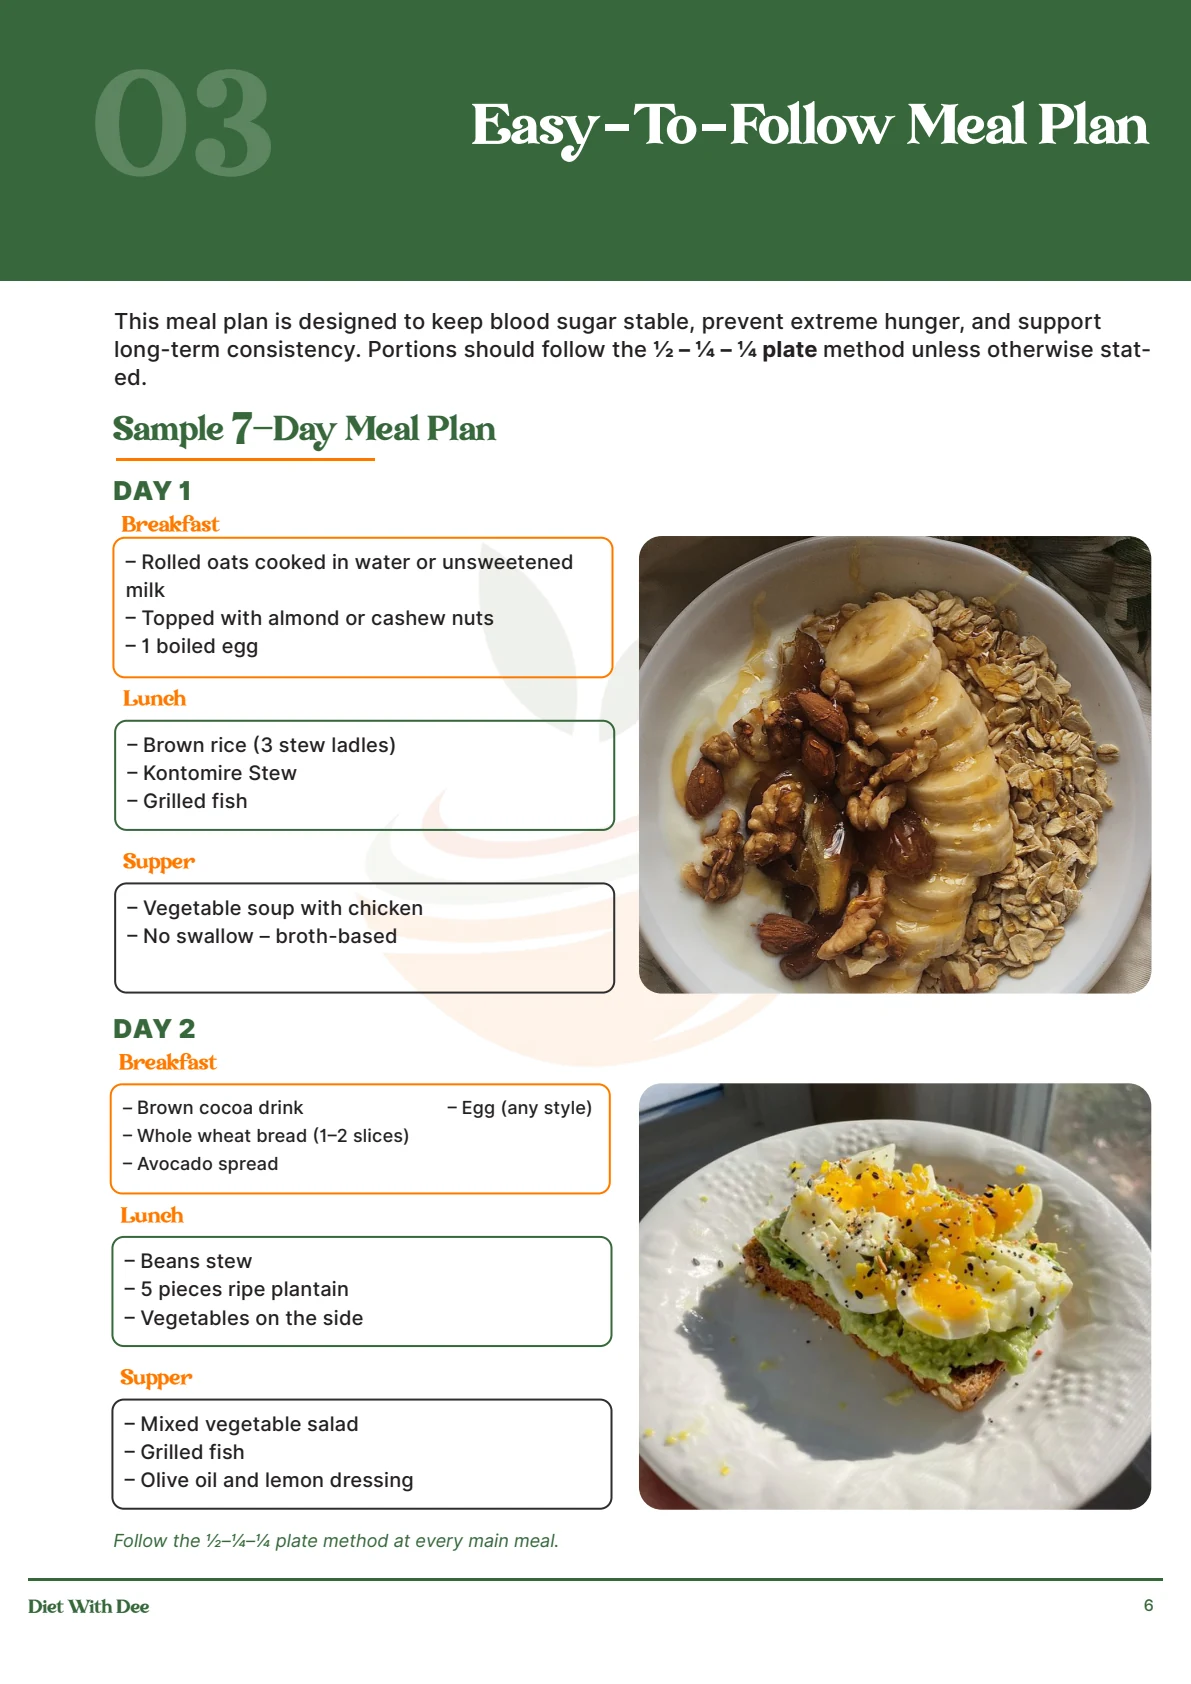
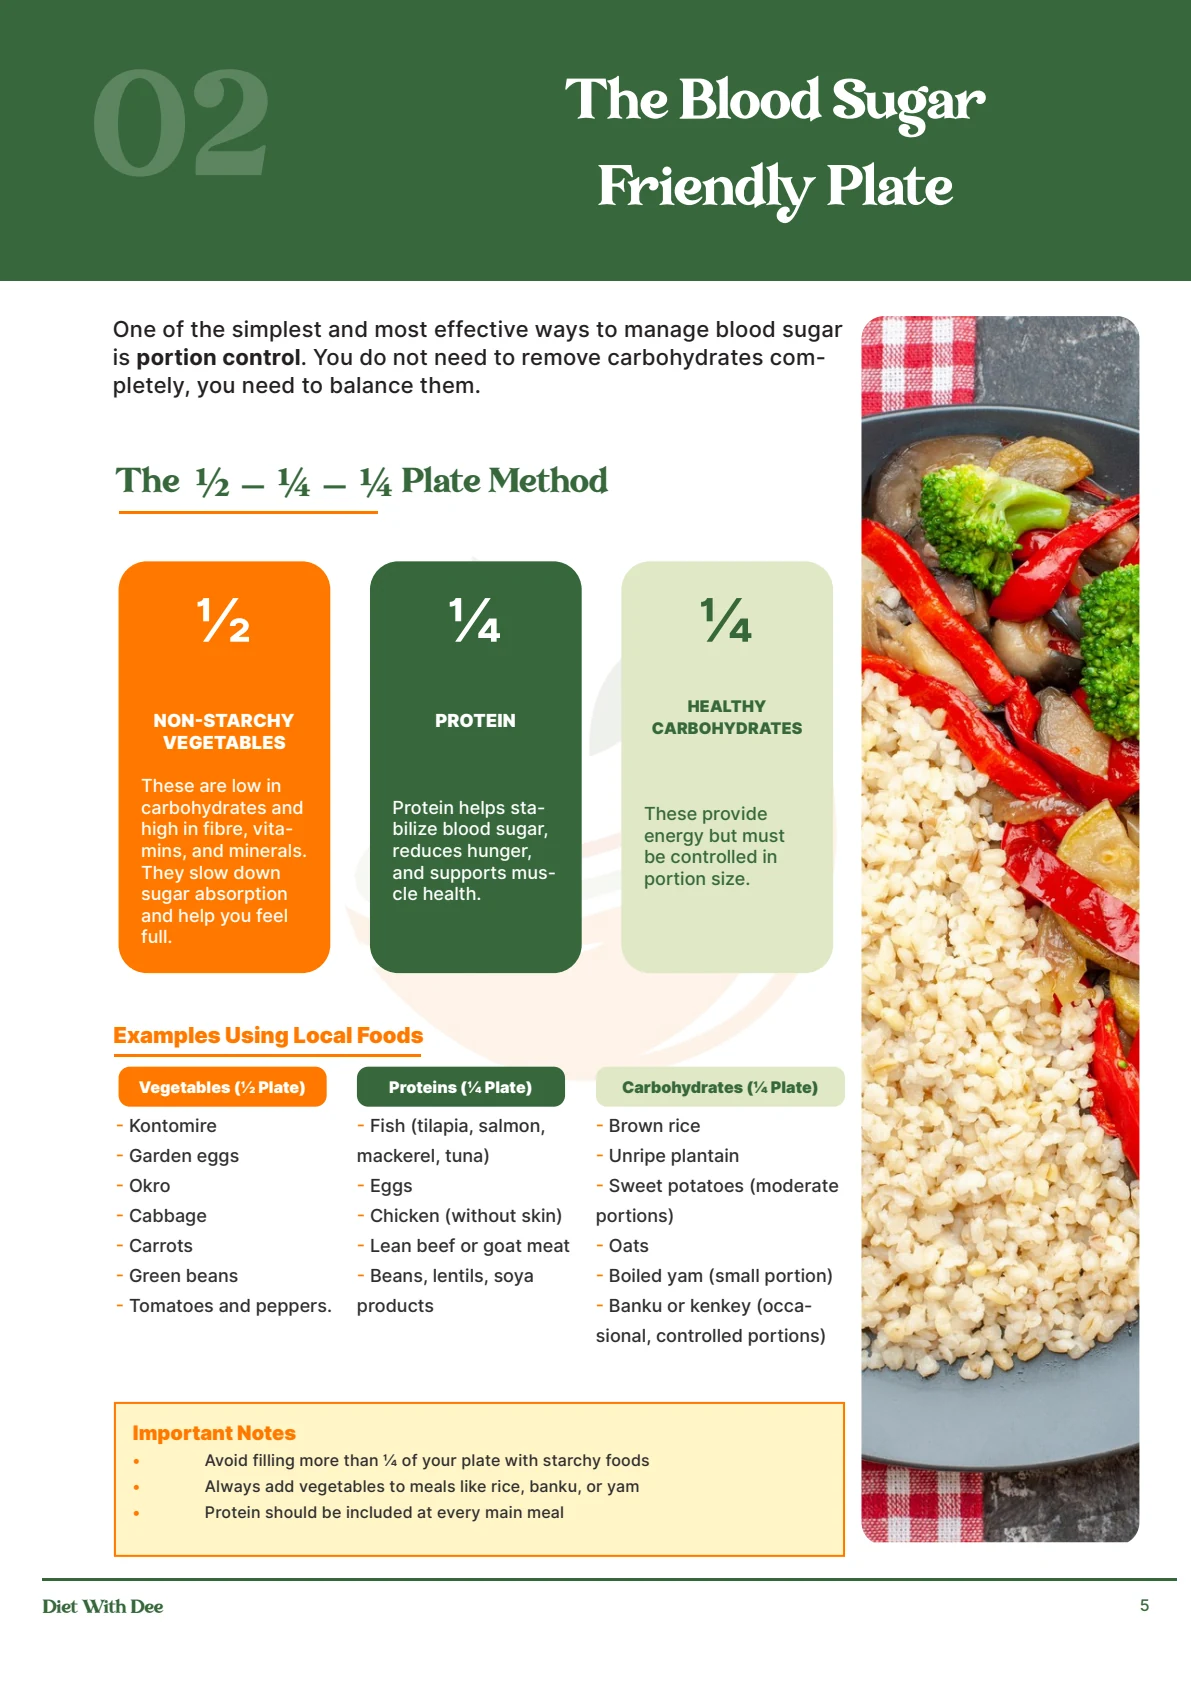
preview updates

diff --git a/src/Pages/Plans/PlanPreview.jsx b/src/Pages/Plans/PlanPreview.jsx
@@ -461,18 +461,6 @@ export default function PlanPreview() {
             onClick={() => setActiveScreenshot(null)}
             className="fixed inset-0 z-50 bg-black/85 backdrop-blur-md flex items-center justify-center p-3 sm:p-6"
           >
-            {/* Top-Right Fixed Floating Close Button */}
-            <button
-              type="button"
-              onClick={() => setActiveScreenshot(null)}
-              className="fixed top-4 right-4 sm:top-6 sm:right-6 z-50 p-2.5 sm:p-3 rounded-full bg-stone-900/95 hover:bg-stone-800 text-white border border-stone-700 shadow-2xl backdrop-blur-md transition-all active:scale-95 cursor-pointer flex items-center gap-2 group"
-              title="Close preview (Esc)"
-              aria-label="Close preview"
-            >
-              <X className="w-5 h-5 group-hover:rotate-90 transition-transform duration-200" />
-              <span className="text-xs font-bold pr-1 hidden sm:inline">Close</span>
-            </button>
-
             <motion.div
               initial={{ scale: 0.95, opacity: 0 }}
               animate={{ scale: 1, opacity: 1 }}
@@ -489,11 +477,11 @@ export default function PlanPreview() {
                 <button
                   type="button"
                   onClick={() => setActiveScreenshot(null)}
-                  className="flex items-center gap-1.5 px-3 py-1.5 rounded-full bg-stone-800 hover:bg-stone-700 text-stone-200 hover:text-white text-xs font-bold transition-all cursor-pointer border border-stone-700 shrink-0"
+                  className="p-1.5 rounded-full text-stone-400 hover:text-white hover:bg-stone-800 transition-colors cursor-pointer shrink-0"
+                  title="Close preview (Esc)"
                   aria-label="Close preview"
                 >
-                  <X className="w-4 h-4" />
-                  <span>Close</span>
+                  <X className="w-5 h-5" />
                 </button>
               </div>
 
@@ -507,16 +495,7 @@ export default function PlanPreview() {
               </div>
 
               {/* Modal Footer CTA */}
-              <div className="px-4 sm:px-6 py-3 bg-stone-900 border-t border-stone-800 flex items-center justify-between text-xs text-stone-400 gap-3">
-                <button
-                  type="button"
-                  onClick={() => setActiveScreenshot(null)}
-                  className="px-3.5 py-2 rounded-xl bg-stone-800 hover:bg-stone-700 text-stone-300 hover:text-white font-medium text-xs transition-colors cursor-pointer border border-stone-700 flex items-center gap-1.5"
-                >
-                  <X className="w-3.5 h-3.5" />
-                  <span>Close Preview</span>
-                </button>
-
+              <div className="px-4 sm:px-6 py-3 bg-stone-900 border-t border-stone-800 flex items-center justify-end text-xs text-stone-400 gap-3">
                 {plan.isComingSoon ? (
                   <button
                     type="button"

diff --git a/src/utils/plansData.js b/src/utils/plansData.js
@@ -190,13 +190,13 @@ export const plans = [
     previewScreenshots: [
       {
         src: DiabetesPreview1,
-        title: "Diabetes-Friendly Daily Meal Plan",
-        caption: "Step-by-step plate method applied to local breakfast, lunch, and supper meals."
+        title: "The Blood Sugar-Friendly Plate",
+        caption: "Visual 1/2 non-starchy vegetables, 1/4 protein, and 1/4 healthy carbs portion control guide."
       },
       {
         src: DiabetesPreview2,
-        title: "Low Glycemic Local Foods Guide",
-        caption: "Practical guide to carbohydrates, tubers, and fruits that digest slowly without spikes."
+        title: "Easy-to-Follow 7-Day Meal Plan",
+        caption: "Structured diabetes-friendly Ghanaian meal combinations to maintain steady blood glucose."
       }
     ]
   },
@@ -277,8 +277,8 @@ export const plans = [
       },
       {
         src: GainPreview2,
-        title: "Nutrient-Dense Booster Guide",
-        caption: "Smart calorie-stacking methods to add 500+ extra calories daily without overwhelming digestion."
+        title: "Weight Gain Foods Cheat Sheet",
+        caption: "High-calorie foods to eat often and easy, stress-free ways to add calories without overwhelming digestion."
       }
     ]
   }

diff --git a/scripts/extract-plan-previews.py b/scripts/extract-plan-previews.py
@@ -26,8 +26,8 @@ PLANS = [
     {
         "id": "blood-sugar-balance",
         "file": "Blood Sugar Balance.pdf",
-        "pages": [6, 9], # 1-based: Meal Plan (p6), Low Glycemic Guide (p9)
-        "labels": ["Diabetes-Friendly Daily Plan", "Low Glycemic Foods Guide"]
+        "pages": [5, 6], # 1-based: Blood Sugar Friendly Plate (p5), Easy-To-Follow Meal Plan (p6)
+        "labels": ["The Blood Sugar-Friendly Plate Method", "Easy-to-Follow Diabetes Meal Plan"]
     },
     {
         "id": "pressure-no-dey-catch-me",
@@ -38,8 +38,8 @@ PLANS = [
     {
         "id": "weight-gain",
         "file": "The Weight Gain  Wahala-Free Plan.pdf",
-        "pages": [5, 8], # 1-based: High Calorie Meal Plan (p5), Nutrient-Dense Booster (p8)
-        "labels": ["High-Calorie Daily Plan", "Nutrient-Dense Booster Guide"]
+        "pages": [5, 10], # 1-based: High Calorie Meal Plan (p5), Foods Cheat Sheet (p10)
+        "labels": ["High-Calorie Structured Meal Plan", "Weight Gain Foods Cheat Sheet"]
     }
 ]
 
